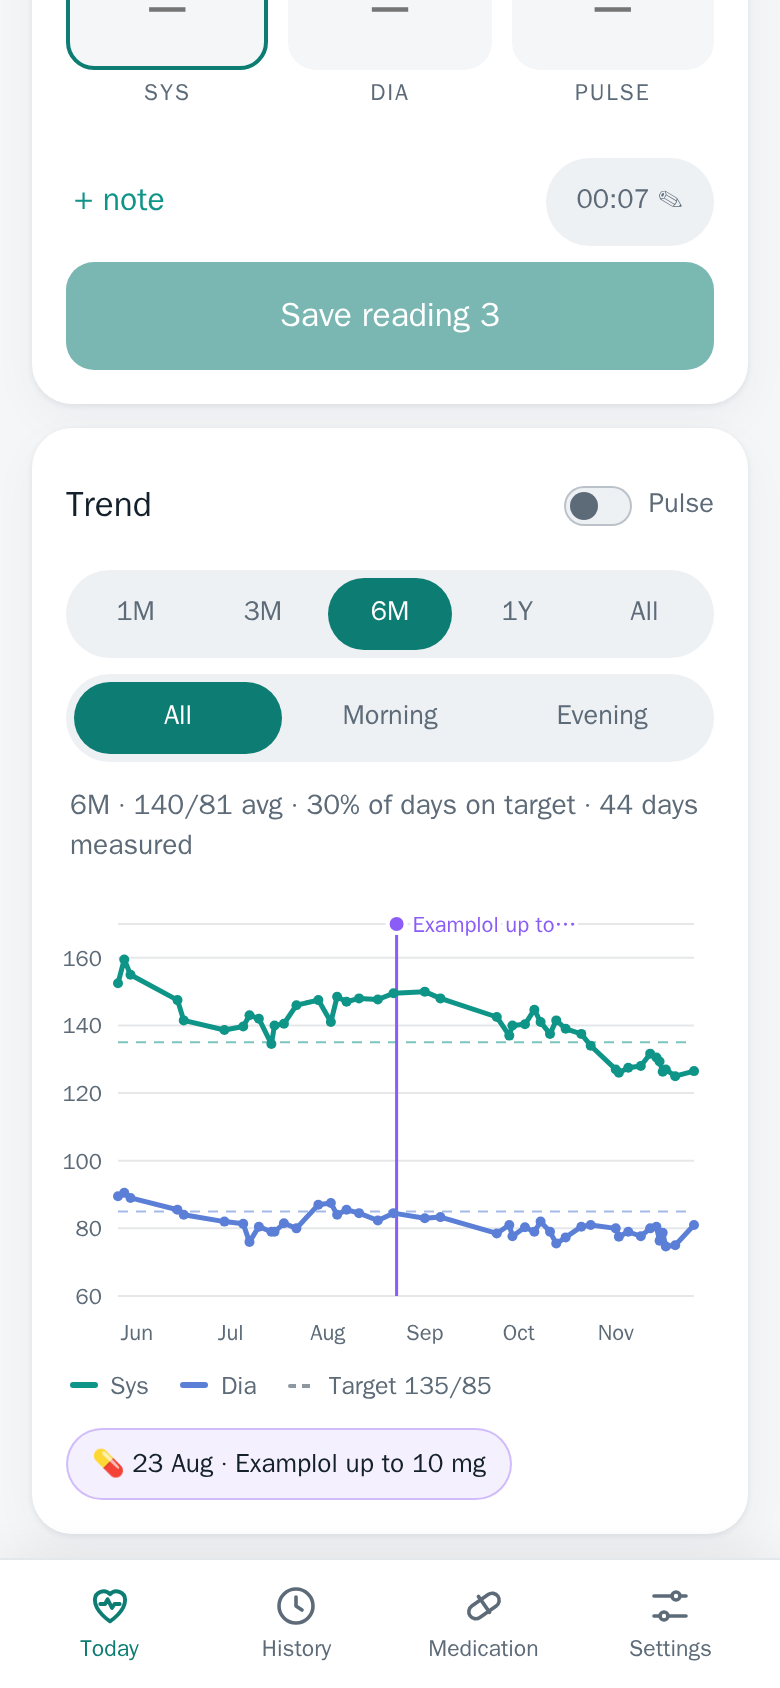
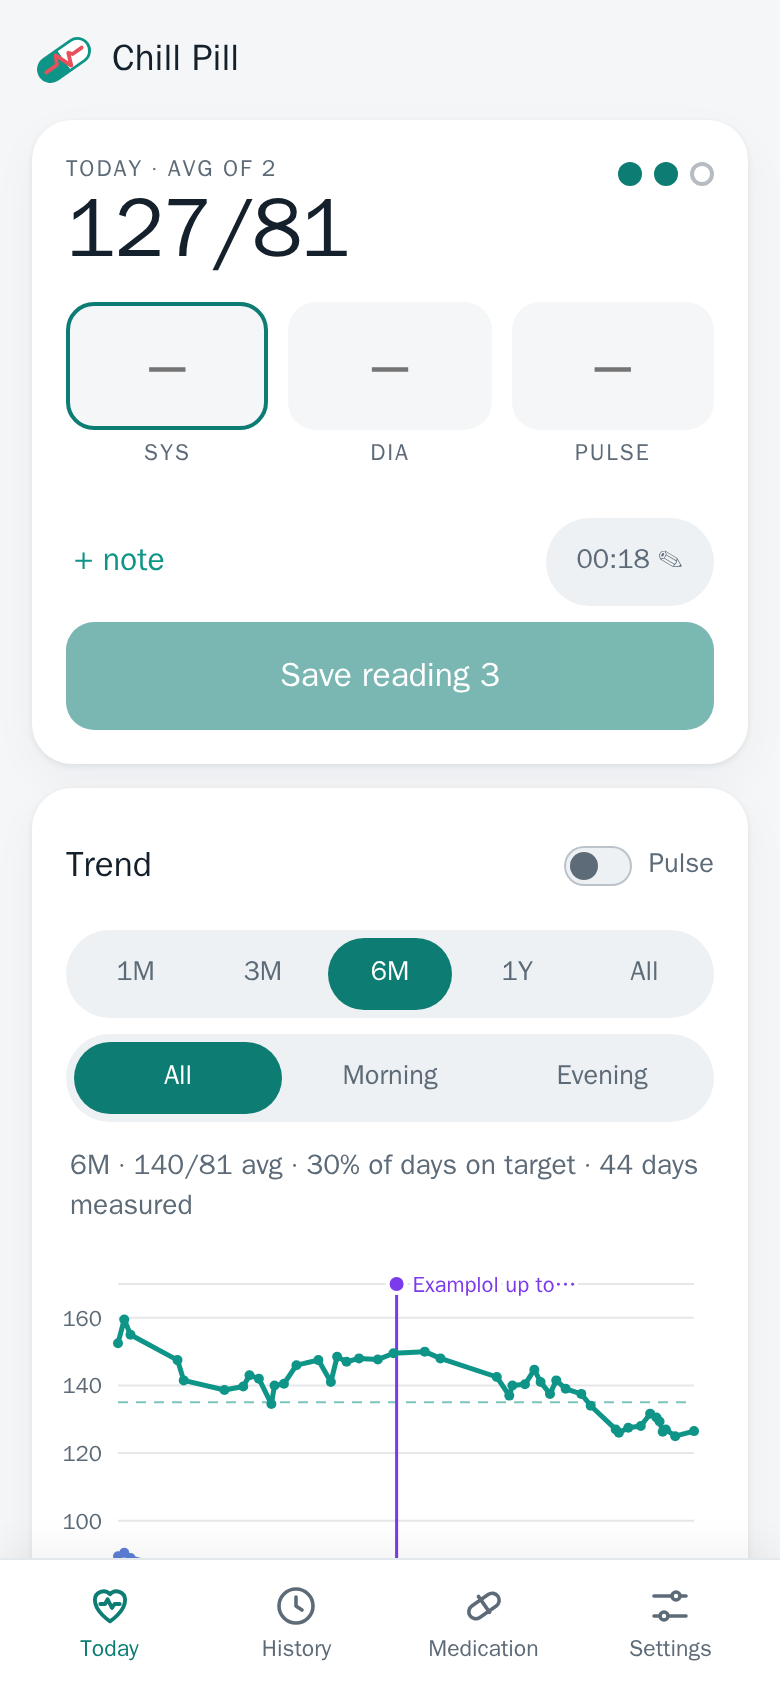
chore: seed refuses non-empty instance, unscrolled phone screenshots, drop dead defines, dockerignore data files

diff --git a/scripts/seed-demo.ts b/scripts/seed-demo.ts
@@ -60,6 +60,11 @@ async function post(path: string, body: unknown) {
 }
 
 async function main() {
+  const existing = (await (await fetch(new URL('/api/readings', base))).json()) as unknown[]
+  if (existing.length > 0) {
+    console.error(`Refusing to seed: ${base} already has readings. Seed only an empty instance.`)
+    process.exit(1)
+  }
   console.log('import', await post('/api/import', readings))
   for (const m of meds) await post('/api/medications', m)
   console.log(`added ${meds.length} medication changes`)

diff --git a/src/client/build.d.ts b/src/client/build.d.ts
@@ -1,5 +1,3 @@
 // Build facts injected by Vite's `define` (vite.config.mts `buildDefine`).
 declare const __BUILD_SHA__: string
 declare const __BUILD_TIME__: string
-declare const __REPO__: string
-declare const __LICENSE__: string

diff --git a/README.md b/README.md
@@ -40,9 +40,9 @@ Raspberry Pi or any other box at home, and your readings never leave it.
 
 <table>
   <tr>
-    <td align="center"><img src="docs/screenshots/calm-phone.png" width="250" alt="Clinical calm theme on a phone: the entry card and the six-month trend chart"><br><sub>Clinical calm</sub></td>
-    <td align="center"><img src="docs/screenshots/dashboard-phone.png" width="250" alt="Dark dashboard theme on a phone: the entry card and the six-month trend chart"><br><sub>Dark dashboard</sub></td>
-    <td align="center"><img src="docs/screenshots/editorial-phone.png" width="250" alt="Warm editorial theme on a phone: the entry card and the six-month trend chart"><br><sub>Warm editorial</sub></td>
+    <td align="center"><img src="docs/screenshots/calm-phone.png" width="250" alt="Clinical calm theme on a phone: today's entry card and the top of the six-month trend chart"><br><sub>Clinical calm</sub></td>
+    <td align="center"><img src="docs/screenshots/dashboard-phone.png" width="250" alt="Dark dashboard theme on a phone: today's entry card and the top of the six-month trend chart"><br><sub>Dark dashboard</sub></td>
+    <td align="center"><img src="docs/screenshots/editorial-phone.png" width="250" alt="Warm editorial theme on a phone: today's entry card and the top of the six-month trend chart"><br><sub>Warm editorial</sub></td>
   </tr>
 </table>
 
@@ -111,7 +111,7 @@ You need Node 22 or newer.
 ```bash
 npm install
 npm run dev                 # API on :3094, app on :5184 (open this one)
-npm run seed -- --to http://localhost:3094   # fill an empty dev instance with made-up readings
+npm run seed -- --to http://localhost:3094   # fill an empty dev instance (it refuses one that already has readings) with made-up readings
 ```
 
 ```bash
